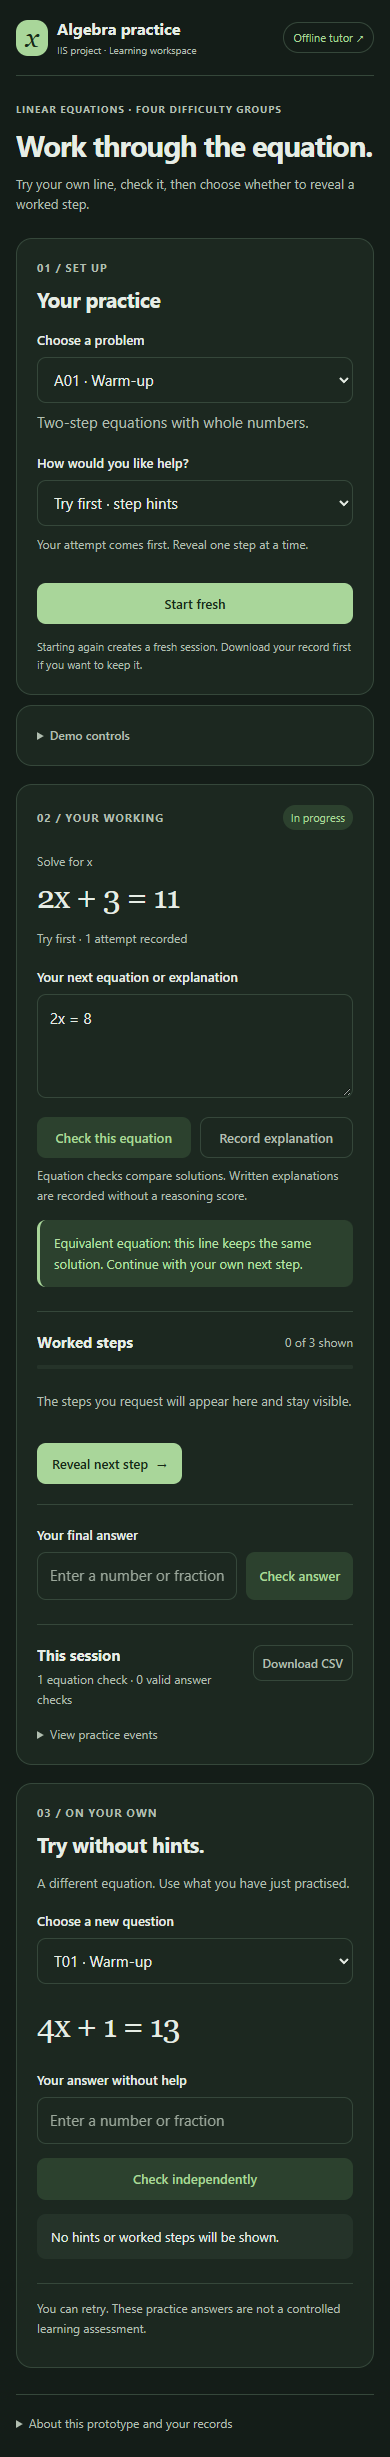
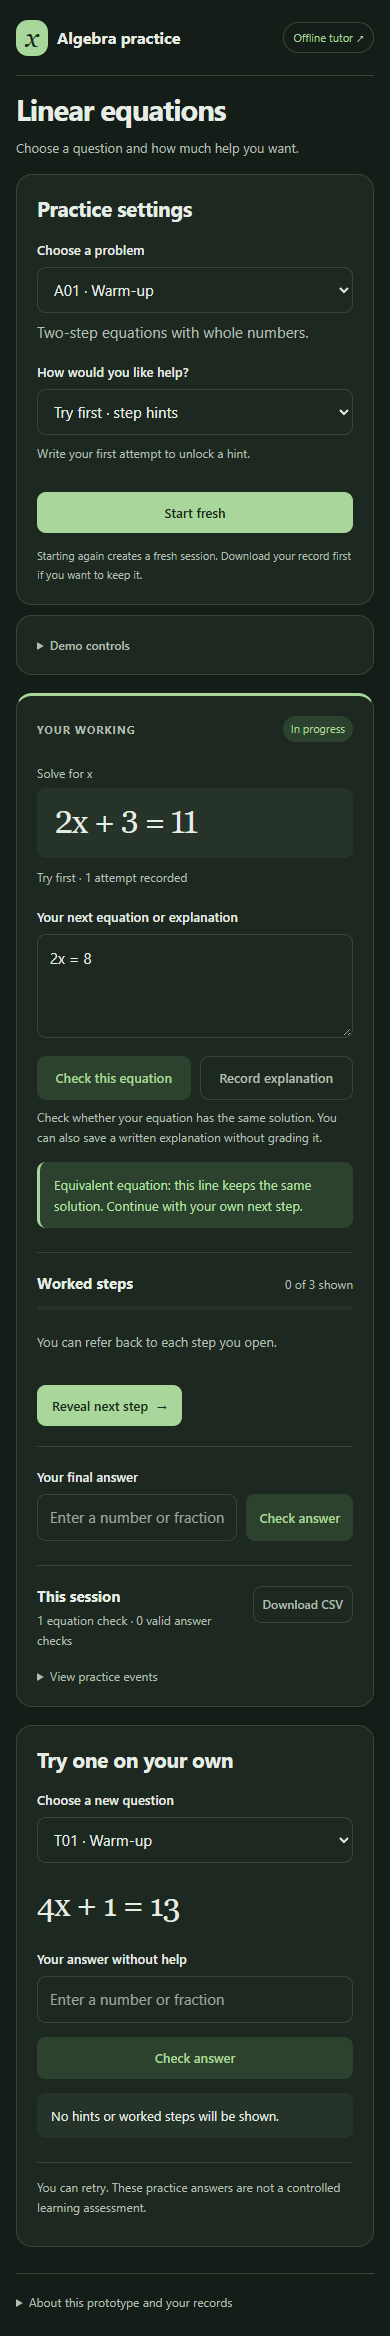
Simplify practice instructions and highlight the active equation

diff --git a/index.html b/index.html
@@ -10,19 +10,19 @@
 <body>
 <main class="app">
   <header class="top">
-    <div class="brand"><span class="brand-mark" aria-hidden="true">x</span><span>Algebra practice<span class="brand-sub">IIS project · Learning workspace</span></span></div>
+    <div class="brand"><span class="brand-mark" aria-hidden="true">x</span><span>Algebra practice</span></div>
     <a class="offline" href="#about">Offline tutor <span aria-hidden="true">↗</span></a>
   </header>
-  <div class="intro"><div><p class="eyebrow">Linear equations · Four difficulty groups</p><h1>Work through the equation.</h1><p class="lead">Try your own line, check it, then choose whether to reveal a worked step.</p></div><p class="catalog-size">9 practice items<br><span>9 new questions without hints</span></p></div>
+  <div class="intro"><div><h1>Linear equations</h1><p class="lead">Choose a question and how much help you want.</p></div><p class="catalog-size">9 practice items<br><span>9 new questions without hints</span></p></div>
   <div class="workspace">
     <aside class="setup">
       <section class="card setup-card">
-        <p class="eyebrow">01 / Set up</p><h2>Your practice</h2>
+        <h2>Practice settings</h2>
         <label for="problem">Choose a problem</label><select id="problem" aria-describedby="problem-kind"></select>
         <p id="problem-kind" class="muted"></p>
         <label for="condition">How would you like help?</label>
         <select id="condition"><option value="gradual">Try first · step hints</option><option value="immediate">Full worked example</option></select>
-        <p id="mode-description" class="sub">Your attempt comes first. Reveal one step at a time.</p>
+        <p id="mode-description" class="sub">Write your first attempt to unlock a hint.</p>
         <button id="start" class="primary full">Start practice</button>
         <p class="setup-note">Starting again creates a fresh session. Download your record first if you want to keep it.</p>
       </section>
@@ -37,18 +37,18 @@
     </aside>
     <div class="learning">
       <section class="card practice-card" id="practice">
-        <div class="card-top"><span class="eyebrow">02 / Your working</span><span id="practice-state" class="pill">Ready to start</span></div>
+        <div class="card-top"><span class="eyebrow">Your working</span><span id="practice-state" class="pill">Ready to start</span></div>
         <p class="question-label">Solve for x</p><h2 id="current-equation" class="equation">2x + 3 = 11</h2>
         <p id="progress" class="muted">Choose how you want help, then start.</p>
         <p id="reply" class="feedback" role="status" aria-live="polite">Your working stays here while you practise.</p>
         <label for="attempt">Your next equation or explanation</label>
         <textarea id="attempt" rows="3" placeholder="Write a complete equation to check it, or describe your approach."></textarea>
         <div class="buttons working-buttons"><button id="check-step" disabled>Check this equation</button><button id="save-attempt" class="quiet" disabled>Record explanation</button></div>
-        <p class="sub">Equation checks compare solutions. Written explanations are recorded without a reasoning score.</p>
+        <p class="sub">Check whether your equation has the same solution. You can also save a written explanation without grading it.</p>
         <p id="step-feedback" class="feedback" role="status" aria-live="polite" hidden></p>
         <div class="help-area"><div class="help-top"><h3>Worked steps</h3><span id="hint-count" class="muted">0 of 3 shown</span></div>
           <progress id="hint-progress" max="3" value="0" aria-label="Worked steps visible"></progress>
-          <p id="steps-empty" class="empty">The steps you request will appear here and stay visible.</p>
+          <p id="steps-empty" class="empty">You can refer back to each step you open.</p>
           <ol id="steps" class="steps"></ol>
           <button id="hint" class="primary" disabled>Reveal next step <span aria-hidden="true">→</span></button>
         </div>
@@ -59,18 +59,18 @@
         <details class="events"><summary>View practice events</summary><ul id="events"></ul></details>
       </section>
       <section class="card independent-card" id="independent">
-        <p class="eyebrow">03 / On your own</p><h2>Try without hints.</h2><p class="lead-small">A different equation. Use what you have just practised.</p>
+        <h2>Try one on your own</h2>
         <label for="transfer">Choose a new question</label><select id="transfer"></select>
         <p id="transfer-equation" class="equation small-equation">4x + 1 = 13</p>
         <label for="transfer-answer">Your answer without help</label><input id="transfer-answer" placeholder="Enter a number or fraction" autocomplete="off">
-        <button id="transfer-check" class="full">Check independently</button>
+        <button id="transfer-check" class="full">Check answer</button>
         <p id="transfer-result" class="feedback" role="status" aria-live="polite">No hints or worked steps will be shown.</p>
         <p class="sub independent-note">You can retry. These practice answers are not a controlled learning assessment.</p>
       </section>
     </div>
   </div>
   <p id="error" class="error-banner" role="alert" hidden></p>
-  <footer><details id="about"><summary>About this prototype and your records</summary><p>Nine authored practice equations and nine paired questions cover warm-up, signed numbers, fractions and multi-step work. Equation equivalence is checked locally using exact arithmetic. Worked hints come from checked content; the language-model response boundary is simulated and no external AI is connected.</p><p>Operation counts and outcomes can be saved on this computer. Your free-text working and session access tokens are excluded from the saved trace. The software checks and sample CSV files are developer demonstrations. A participant study remains future work.</p></details></footer>
+  <footer><details id="about"><summary>About this prototype and your records</summary><p>Nine authored practice equations and nine paired questions cover warm-up, signed numbers, fractions and multi-step work. Equation equivalence is checked locally using exact arithmetic. Hints use worked solutions written for each question. The tutor runs offline without a live language model.</p><p>Operation counts and outcomes can be saved on this computer. Your free-text working and session access tokens are excluded from the saved trace. The software checks and sample CSV files are developer demonstrations. A participant study remains future work.</p></details></footer>
 </main>
 </body>
 </html>

diff --git a/style.css b/style.css
@@ -5,3 +5,16 @@
 @media(max-width:700px){.app{padding:0 16px 24px}.top{min-height:76px;gap:10px}.brand{font-size:16px;gap:9px}.brand-sub{font-size:10px}.brand-mark{width:32px;height:36px}.offline{font-size:11px;padding:6px 9px}.intro{padding:26px 0 24px}.intro .eyebrow{font-size:10px}h1{font-size:29px}.lead{font-size:13px}.catalog-size{display:none}.workspace{grid-template-columns:1fr;gap:18px}.setup{display:grid;grid-template-columns:1fr}.setup-card{padding:20px}.setup-card h2{margin-bottom:14px}.setup-card .sub{min-height:0}.setup-note{font-size:11px}.fold{margin-top:10px}.card{padding:20px}.learning{gap:18px}.equation{font-size:32px}.card-top{margin-bottom:22px}.answer-row{flex-wrap:wrap}.answer-row input{flex:1;min-width:130px}.answer-row button{padding:11px 12px}.record-area{align-items:flex-start}.record-area button{font-size:12px;padding:9px}.completion button{width:100%}.independent-card .full{max-width:none}}
 @media(prefers-color-scheme:dark){:root{color-scheme:dark;--bg:#141d18;--surface:#1c2820;--sunk:#253329;--ink:#e6ede5;--muted:#b1beb0;--line:#35473a;--accent:#a9d69a;--accent-soft:#2c412e;--good:#b6e1a6;--warn:#e6c67f;--warn-soft:#3b321c;--bad:#f1b1a5;--bad-soft:#402922}.brand-mark,button.primary{color:#172918}.completion{border-color:#476244}}
 @media(prefers-reduced-motion:reduce){html{scroll-behavior:auto}button{transition:none}}
+
+.practice-card { border-top: 3px solid var(--accent); }
+#current-equation {
+  background: var(--sunk);
+  padding: 14px 18px;
+  border-radius: 9px;
+  font-variant-numeric: lining-nums;
+}
+#step-feedback[data-status="warn"] { border-left-color: var(--warn); }
+@media (max-width: 700px) {
+  .intro { padding-block: 16px; }
+  .working-buttons button { min-height: 44px; }
+}

diff --git a/client.js b/client.js
@@ -231,7 +231,7 @@ $('attempt').addEventListener('input', () => {
 });
 $('condition').addEventListener('change', () => {
   $('mode-description').textContent = $('condition').value === 'gradual'
-    ? 'Your attempt comes first. Reveal one step at a time.'
+    ? 'Write your first attempt to unlock a hint.'
     : 'The same checked steps appear together. You can still check your own working.';
 });
 $('try-independent').addEventListener('click', () => {
